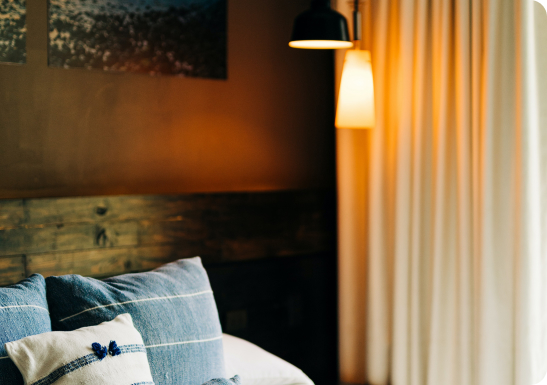
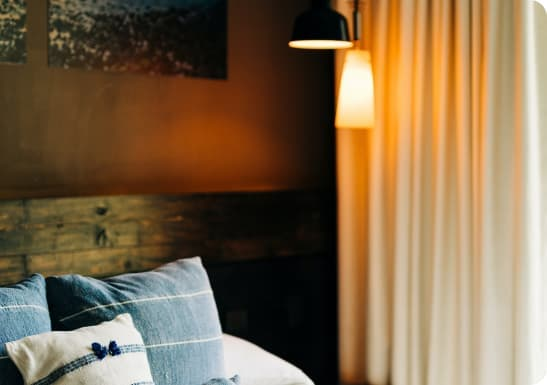
modified section your rest, header,footer. Add adaptive for header. change images

diff --git a/index.html b/index.html
@@ -41,7 +41,7 @@
           <div class="slider__wrap">
             <img
               class="slide1__img"
-              src="assets/img/slider1.png"
+              src="assets/img/slider1.jpg"
               alt="Slide 1"
             />
             <div class="slide1__text">
@@ -64,7 +64,7 @@
             <div class="slide2__images-block">
               <!-- Левая картинка -->
               <img
-                src="assets/img/slide2-1.png"
+                src="assets/img/slide2-1.jpg"
                 alt="Image 1"
                 class="img-left"
               />
@@ -72,7 +72,7 @@
               <div class="slide2__image-text block-left">
                 <img
                   class="img-large"
-                  src="assets/img/slide2-2.png"
+                  src="assets/img/slide2-2.jpg"
                   alt="комната"
                 />
                 <div class="card card-left">
@@ -88,11 +88,11 @@
                   <p class="card__middle">790+</p>
                   <p class="card__bottom">свободно</p>
                 </div>
-                <img src="assets/img/slide2-3.png" alt="Image 3" />
+                <img src="assets/img/slide2-3.jpg" alt="Image 3" />
               </div>
               <!-- четвертый блок -->
               <img
-                src="assets/img/slide2-4.png"
+                src="assets/img/slide2-4.jpg"
                 alt="Image 4"
                 class="img-right"
               />
@@ -117,7 +117,7 @@
           <div class="slider__wrap">
             <img
               class="slide3__img"
-              src="assets/img/slide3.png"
+              src="assets/img/slide3.jpg"
               alt="общий вид"
             />
           </div>
@@ -142,15 +142,15 @@
             комфортабельной яхте, разнообразят и украсят ваш отпуск</p>
         </div>
         <div class="about__row-2left">
-          <img class="about" src="assets/img/about-left.png" alt="Image 1" />
+          <img class="about" src="assets/img/about-left.jpg" alt="Image 1" />
         </div>
       </div>
       <div class="about__column-2">
         <div class="row-1right">
-          <img src="assets/img/about_right-up.png" alt="Image 2" />
+          <img src="assets/img/about_right-up.jpg" alt="Image 2" />
         </div>
         <div class="row-2right">
-          <img src="assets/img/about-right-down.png" alt="Image 3" />
+          <img src="assets/img/about-right-down.jpg" alt="Image 3" />
         </div>
       </div>
     </section>
@@ -167,7 +167,7 @@
           <div class="rooms__card">
             <img
               class="card-img-top"
-              src="/assets/img/room.png"
+              src="/assets/img/room.jpg"
               alt="Card image cap"
             />
             <div class="rooms__about">
@@ -185,7 +185,7 @@
           <div class="rooms__card">
             <img
               class="card-img-top"
-              src="/assets/img/room.png"
+              src="/assets/img/room.jpg"
               alt="Card image cap"
             />
             <div class="rooms__about">
@@ -203,7 +203,7 @@
           <div class="rooms__card">
             <img
               class="card-img-top"
-              src="/assets/img/room.png"
+              src="/assets/img/room.jpg"
               alt="Card image cap"
             />
             <div class="rooms__about">
@@ -221,7 +221,7 @@
           <div class="rooms__card">
             <img
               class="card-img-top"
-              src="/assets/img/room.png"
+              src="/assets/img/room.jpg"
               alt="Card image cap"
             />
             <div class="rooms__about">
@@ -249,21 +249,25 @@
         <div class="rest__img col-12">
           <div class="rest__img-box">
             <div class="filter-box-img1">
+              <img src="assets/img/rest_img1.jpg" alt="трансфер">
               <div class="rest__img-box__img-filter">
                 <div>Трансфер из Аэропорта</div>
               </div>
             </div>
             <div class="filter-box-img2">
+              <img src="assets/img/rest_img2.jpg" alt="паркинг">
               <div class="rest__img-box__img-filter">
                 <div class="img-filter-text">Охраняемый паркинг</div>
               </div>
             </div>
             <div class="filter-box-img3">
+              <img src="assets/img/rest_img3.jpg" alt="wi-fi">
               <div class="rest__img-box__img-filter">
                 <div class="img-filter-text">Бесплатный WIFI</div>
               </div>
             </div>
             <div class="filter-box-img4">
+              <img src="assets/img/rest_img4.jpg" alt="кухня">
               <div class="rest__img-box__img-filter">
                 <div>Вкусная домашняя кухня</div>
               </div>
@@ -298,7 +302,7 @@
           <div class="vibe__video">
             <video
               src="/assets/video/vibe-video.mp4"
-              poster="/assets/img/video_preview.png"
+              poster="/assets/img/video_preview.jpg"
               controls
             ></video>
             <button class="vibe__play-button">
@@ -471,7 +475,7 @@
           <div class="col-12">
             <div class="communication__box">
               <img
-                src="./assets/img/background_img_contacts.png"
+                src="./assets/img/background_img_contacts.jpg"
                 alt="hotel building"
                 class="img-fluid"
               />

diff --git a/sass/style_main.sass b/sass/style_main.sass
@@ -569,19 +569,19 @@ iframe
     position: relative
     grid-row: 1 / 3
     grid-column: 1 / 2
-    background-image: url("/assets/img/rest_img1.png")
+    background-image: url("/assets/img/rest_img1.jpg")
     background-size: cover
     border-radius: 12px
 
 .filter-box-img2
     position: relative
-    background-image: url("/assets/img/rest_img2.png")
+    background-image: url("/assets/img/rest_img2.jpg")
     background-size: cover
     border-radius: 12px
 
 .filter-box-img3
     position: relative
-    background-image: url("/assets/img/rest_img3.png")
+    background-image: url("/assets/img/rest_img3.jpg")
     background-size: cover
     border-radius: 12px
 
@@ -589,7 +589,7 @@ iframe
     position: relative
     grid-row: 2 / 3
     grid-column: 2 / 4
-    background-image: url("/assets/img/rest_img4.png")
+    background-image: url("/assets/img/rest_img4.jpg")
     background-size: cover
     border-radius: 12px
 
@@ -691,7 +691,7 @@ video
 .footer
     margin-right: auto
     margin-left: auto
-    width: 1360px
+    max-width: 1360px
     max-height: 425px
     padding: 50px
     background-color: rgb(255, 255, 255)
@@ -791,6 +791,9 @@ li
         margin-bottom: 25px
 
 @media screen and (max-width: 991px)   // m //
+    .menu_phone
+        display: none
+    
     //Секция о нас
     .about__row-1left
         padding: 15px 10px
@@ -868,6 +871,9 @@ li
         height: 352px
 
 @media screen and (max-width: 767px)   // sm //
+    li
+        margin: 6px
+    
     .slide1
         &__text
             font-size: 1.2rem

diff --git a/css/style_main.css b/css/style_main.css
@@ -578,21 +578,21 @@ iframe {
   position: relative;
   grid-row: 1/3;
   grid-column: 1/2;
-  background-image: url("/assets/img/rest_img1.png");
+  background-image: url("/assets/img/rest_img1.jpg");
   background-size: cover;
   border-radius: 12px;
 }
 
 .filter-box-img2 {
   position: relative;
-  background-image: url("/assets/img/rest_img2.png");
+  background-image: url("/assets/img/rest_img2.jpg");
   background-size: cover;
   border-radius: 12px;
 }
 
 .filter-box-img3 {
   position: relative;
-  background-image: url("/assets/img/rest_img3.png");
+  background-image: url("/assets/img/rest_img3.jpg");
   background-size: cover;
   border-radius: 12px;
 }
@@ -601,7 +601,7 @@ iframe {
   position: relative;
   grid-row: 2/3;
   grid-column: 2/4;
-  background-image: url("/assets/img/rest_img4.png");
+  background-image: url("/assets/img/rest_img4.jpg");
   background-size: cover;
   border-radius: 12px;
 }
@@ -837,6 +837,9 @@ li {
   }
 }
 @media screen and (max-width: 991px) {
+  .menu_phone {
+    display: none;
+  }
   .about__row-1left {
     padding: 15px 10px;
   }
@@ -930,6 +933,9 @@ li {
   }
 }
 @media screen and (max-width: 767px) {
+  li {
+    margin: 6px;
+  }
   .slide1__text {
     font-size: 1.2rem;
   }

diff --git a/doubleroom.html b/doubleroom.html
@@ -37,7 +37,7 @@
         <div class="main-content gap-lg-4">
           <h1 class="room-name">Двухкомнатный номер в Апарт-отеле «SkyPlazaYalta»</h1>
           <img
-            src="assets/img/images_main-room.png"
+            src="assets/img/images_main-room.jpg"
             alt="Основной вид номера"
             class="main-img"
           />
@@ -281,7 +281,7 @@
         <div class="col-12">
           <div class="communication__box">
             <img
-              src="./assets/img/background_img_contacts.png"
+              src="./assets/img/background_img_contacts.jpg"
               alt="hotel building"
               class="img-fluid"
             />

diff --git a/sass/style_droom.sass b/sass/style_droom.sass
@@ -420,7 +420,7 @@ iframe
 .footer
     margin-right: auto
     margin-left: auto
-    width: 1360px
+    max-width: 1360px
     max-height: 425px
     padding: 50px
     background-color: rgb(255, 255, 255)
